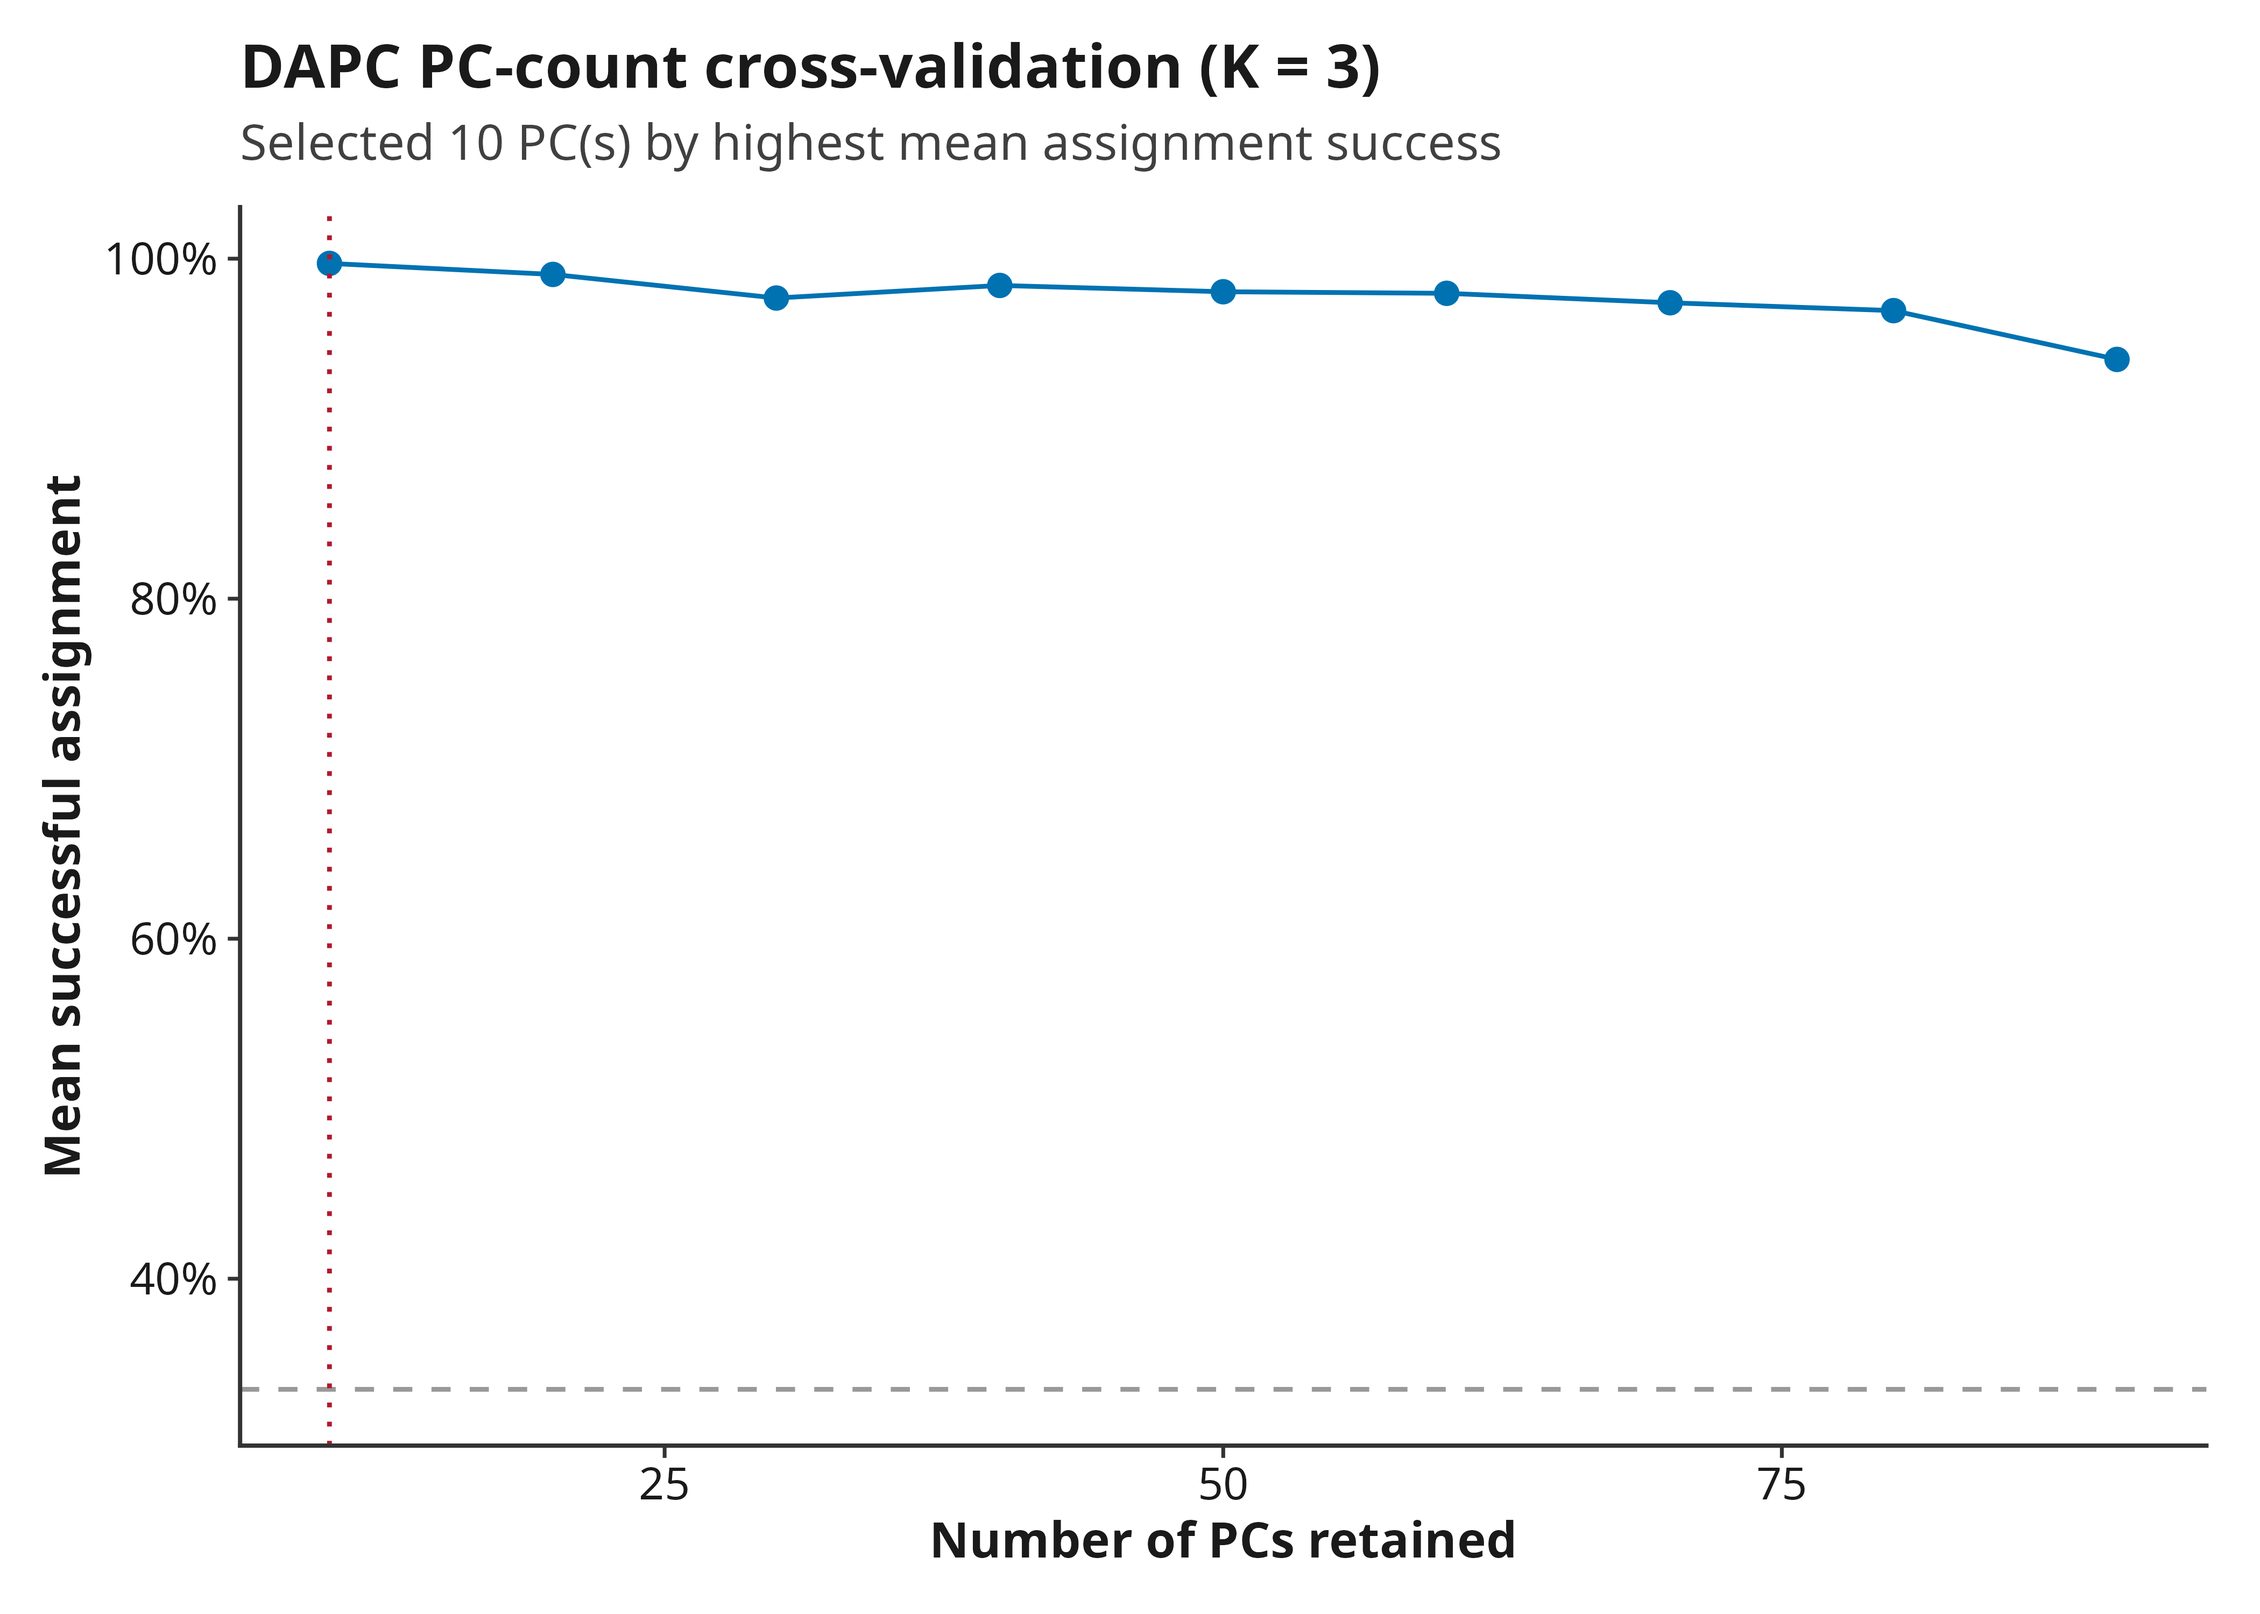
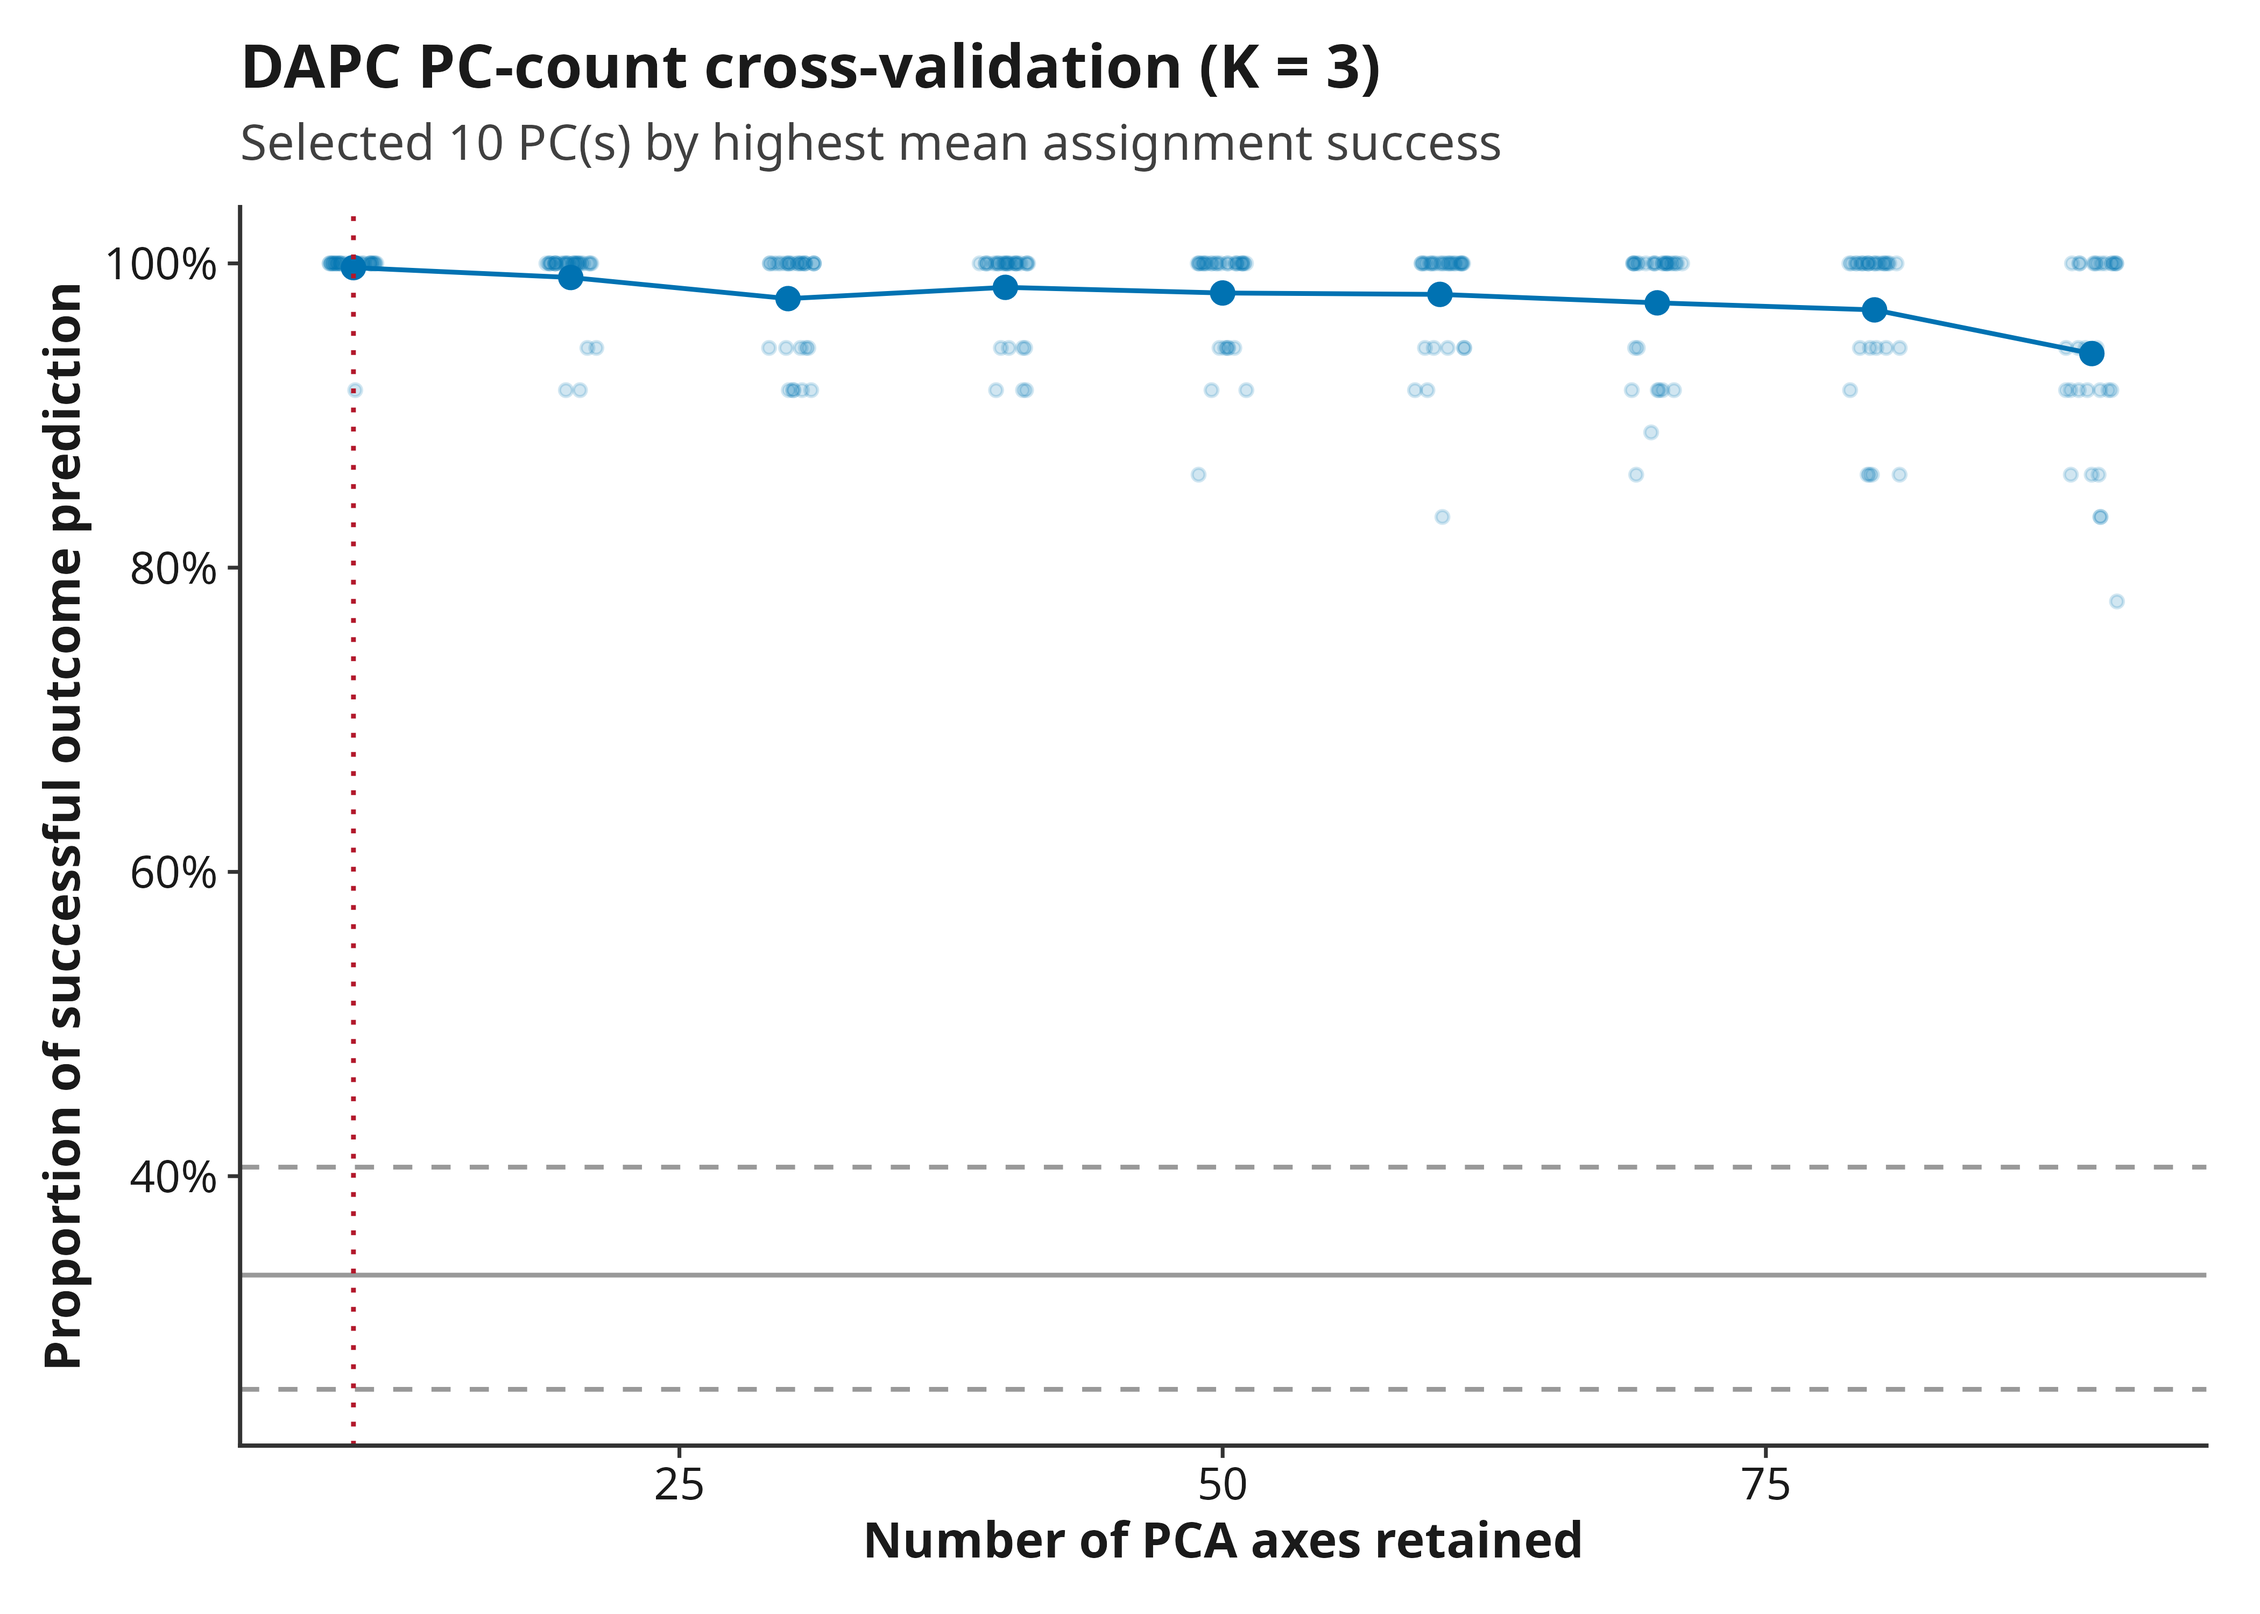
Improve DAPC PC-count validation: raw scatter/CI band and a DA-eigenvalues plot
User request was to switch xvalDapc to a "poppr version" with parallel
support. Investigated first: no separate poppr::xvalDapc exists -- every
dispatch method lives in adegenet's own namespace even with poppr
loaded; poppr just re-exports the generic. The parallel example the user
had in mind is adegenet's own xvalDapc(..., parallel = "multicore",
ncpus = ...), forwarded via `...` into boot::boot().

Tried wiring that up, then caught a real problem verifying it against
this package's real quickstart dataset: this xvalDapc() call resamples
with sim = "parametric", which per boot::boot()'s own documentation
resamples inside worker processes with separate, non-reproducible
seeds. Confirmed directly: identical data/seed gave n.pca = 10
(replicate RMSE ~0) serial vs. n.pca = 40 (RMSE 0.076, exceeding the
stability threshold) with parallel enabled -- a materially different
result, not just a faster one. Every other parallel path in this
codebase is verified byte-identical regardless of thread count, so the
call stays serial rather than break that guarantee.

Shipped the two real, verified improvements instead:
- plot_dapc_xval() now overlays every individual bootstrap replicate's
  outcome (from cv's already-retained, previously-unused raw results
  table) plus the full 2.5/50/97.5% random-chance band, not just the
  mean curve and its median -- directly answers the "how do I know the
  auto-selected PC count is trustworthy" concern, since a mean-only
[…]

diff --git a/NEWS.md b/NEWS.md
@@ -20,6 +20,12 @@
 
 - **Added a DAPC PC-count cross-validation diagnostic figure, `12b_DAPC_xval_K{k}`, one per K value tried.** `run_dapc_k_task()` already calls `adegenet::xvalDapc()` to pick the number of retained PCs by cross-validated assignment success whenever `analyses.dapc_cross_validation` is enabled (the default) -- this was already the standard adegenet cross-validation approach, already on by default, not a new statistical method. The full per-n.pca success/error curve behind that choice was computed every run but discarded (`xval.plot = FALSE`, only the final selected count kept). The new `plot_dapc_xval()` draws that curve straight from the already-retained `cv` object with no new computation: mean assignment success against number of PCs retained, a dashed reference line for the median random-chance rate, and the selected PC count marked directly on the curve -- the standard DAPC cross-validation diagnostic (e.g. https://grunwaldlab.github.io/Population_Genetics_in_R/DAPC.html#cross-validation). Verified end to end against the real quickstart dataset (K = 2:4) and with new unit tests covering the plotting logic directly and its wiring into `plot_dapc()`. No public API changes; `plot_dapc_xval()` is internal.
 
+- **Requested: a way to visually validate DAPC's automatically-selected PC count (reported concern: `adegenet::xvalDapc()` can pick a count that collapses all samples onto one point/group), a parallel cross-validation backend, and a DA-eigenvalues diagnostic.** Investigated the "switch to poppr's `xvalDapc()`" request directly against the installed packages first: there is no separate poppr implementation to switch to -- `xvalDapc` and every one of its S3 dispatch methods (`.genlight`, `.matrix`, `.data.frame`, `.default`) live in adegenet's own namespace even with poppr loaded; poppr just re-exports the generic for internal use. The parallel execution the user had in mind traces to the widely-used "Population Genetics in R" tutorial's `xvalDapc(..., parallel = "multicore", ncpus = 4L)` example -- real, but it's adegenet's own `...` being forwarded three calls deep into `boot::boot()`'s native parallel bootstrap (`xvalDapc()` -> its internal `.get.prop.pred()` -> `boot::boot()`), not a poppr feature. Traced the requested "PCA axes retained vs. proportion of successful outcome prediction" figure the same way: those are adegenet's own `xvalDapc(..., xval.plot = TRUE)` default plot's exact axis labels, currently suppressed (`xval.plot = FALSE`) in favor of the mean-curve-only `plot_dapc_xval()` above.
+
+  Tried wiring up that native parallel path (`parallel = "multicore", ncpus = ...`, budgeted against the outer per-K fork so nested forking couldn't oversubscribe) and caught a real problem verifying it against this package's own real quickstart dataset before shipping it: this `xvalDapc()` call resamples with `sim = "parametric"`, which per `boot::boot()`'s own documentation resamples *inside* the worker processes, each choosing its own separate, non-reproducible seed -- confirmed directly, not just theoretically: identical data/seed gave `n.pca = 10` (replicate RMSE ~0, fully reproducible) serial vs. `n.pca = 40` (RMSE 0.076, exceeding the stability threshold) with `parallel = "multicore"` enabled, a materially different, less reproducible result, not just a faster one. Every other parallel path in this codebase is verified byte-identical regardless of thread count; matching that guarantee here would require reimplementing `xvalDapc()`'s own resampling loop, well beyond this request's scope, so the call stays serial -- a deliberate reproducibility-over-speed tradeoff, not an oversight.
+
+  Shipped the two real, verified improvements instead. `plot_dapc_xval()` now overlays every individual bootstrap replicate's outcome (from `cv`'s already-retained, previously-unused `Cross-Validation Results` raw table) as jittered points, plus the full 2.5/50/97.5% random-chance reference band instead of just the median -- a mean-only curve can look like a clean, confident peak even when the underlying replicates are highly variable, exactly the case a user needs to see to judge whether an auto-selected PC count is a robust signal or an artifact of too few replicates/too small a training set; axis labels now match adegenet's own wording verbatim. New `plot_dapc_eigenvalues()` (`12c_DAPC_eigenvalues_K{k}`) draws the standard `barplot(dapc$eig, ...)` DA-eigenvalues diagnostic as a ggplot2 bar chart -- a second, independent way to sanity-check the retained axis count (this one validates `n.da` coming out of `dapc()`, `plot_dapc_xval()` validates `n.pca` going in). Verified end to end on both a real synthetic 3-population dataset and this package's real quickstart dataset, and with new unit tests: the raw-scatter/CI-band rendering, `plot_dapc_eigenvalues()` directly plus its wiring into `plot_dapc()`, and that `run_dapc_k_task()`'s `xvalDapc()` call never requests `boot::boot()`'s parallel bootstrap. No public API changes; both new/changed functions are internal.
+
 # popgenVCF 1.0.4 development
 
 - **Fixed a real production report: every Manhattan-style figure (PCA/DAPC SNP-loading plots, genome-scan FST/diversity/Tajima's D scans, the pcadapt outlier scan) rendered completely unreadable on a non-model reference genome assembled into dozens of short contigs with long accession-style names.** Reported with real figures from a 160-sample nematode cohort assembled against an 88-contig WGS reference (contig names like `JAEVLN010000001.1`): the shared chromosome-name row all five figure types draw beneath their Mb-tick x-axis (`manhattan_chromosome_row()`, `R/utils.R`) centers each contig's name horizontally on its own narrow segment -- fine for a handful of large model-genome chromosomes, but with dozens of short contigs sharing a fixed page width, adjacent long names inevitably collided into an illegible smear regardless of font size, confirmed directly against the reporting user's own figures and the exact real contig names/lengths from their VCF header.
